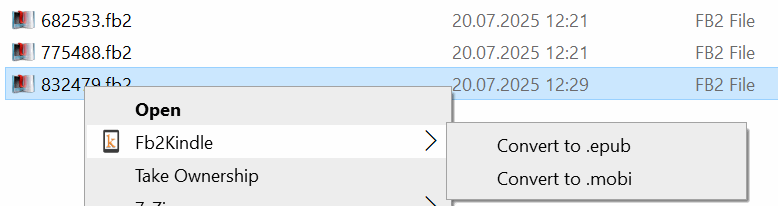
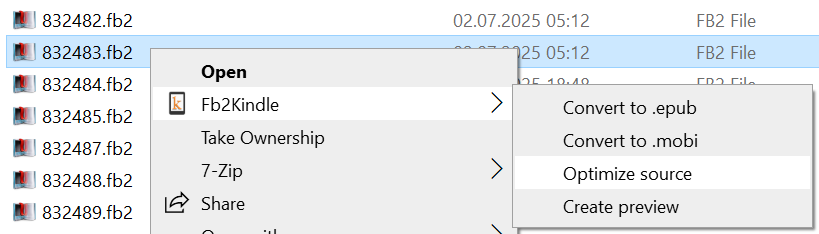
-optimize: optimize images in target
-optimizeSource: optimize images in source file

diff --git a/Fb2Kindle/Convertor.cs b/Fb2Kindle/Convertor.cs
@@ -38,7 +38,7 @@ namespace Fb2Kindle {
 
     private const string DropCap = "АБВГДЕЖЗИКЛМНОПРСТУФХЦЧЩШЭЮЯ"; //"АБВГДЕЁЖЗИЙКЛМНОПРСТУФХЦЧЩШЬЪЫЭЮЯQWERTYUIOPASDFGHJKLZXCVBNM";
     private const string NoAuthorText = "без автора";
-    private const string kindlegenName = "kindlegen.exe";
+    private const string KindleGenName = "kindlegen.exe";
     private XElement opfFile;
     private readonly AppOptions options;
 
@@ -109,6 +109,17 @@ namespace Fb2Kindle {
               continue;
           }
 
+          if (options.OptimizeSource) {
+            XElement bookRaw;
+            using (Stream file = File.OpenRead(books[idx])) {
+              bookRaw = XElement.Load(file, LoadOptions.None);
+            }
+            if (bookRaw != null && OptimizeImages(bookRaw)) {
+               bookRaw.Save(books[idx], SaveOptions.None);
+            }
+            continue;
+          }
+
           var book = LoadBookWithoutNs(books[idx]);
           if (book == null) return false;
 
@@ -126,7 +137,7 @@ namespace Fb2Kindle {
           if (ProcessImages(book, $"Images\\{bookPostfix}", coverDone)) {
             var imgSrc = Util.AttributeValue(book.Elements("description").Elements("title-info").Elements("coverpage").Elements("div").Elements("img"), "src");
             if (!string.IsNullOrEmpty(imgSrc)) {
-              ImagesHelper.AutoScaleImage(Path.Combine(options.TempFolder, imgSrc));
+              ImagesHelper.AutoScaleImage(Path.Combine(options.TempFolder, imgSrc), true, options.Config.OptimizeImagesWidth, options.Config.OptimizeImagesHeight);
               if (!coverDone) {
                 opfFile.Elements("metadata").First().Elements("x-metadata").First().Add(new XElement("EmbeddedCover", imgSrc));
                 AddGuideItem("Cover", imgSrc, "other.ms-coverimage-standard");
@@ -160,7 +171,7 @@ namespace Fb2Kindle {
         }
 
         if (sequenceIndex == 0)
-          return false;
+           return false;
         CreateNcxFile(rootToc);
 
         if (rootToc != null && !options.Config.SkipToc) {
@@ -170,6 +181,10 @@ namespace Fb2Kindle {
         }
 
         SaveXmlToFile(opfFile, $@"{options.TempFolder}\content.opf");
+        
+        if (options.Test)
+          return true;
+
         var tmpBookPath = options.Epub 
           ? CreateEpub() 
           : CreateMobi();
@@ -207,7 +222,7 @@ namespace Fb2Kindle {
                 break;
               case ConverterCleanupMode.Partial:
                 //File.Delete(Path.Combine(tempDir, Path.GetFileNameWithoutExtension(inputFile) + ".opf"));
-                File.Delete(Path.Combine(options.TempFolder, kindlegenName));
+                File.Delete(Path.Combine(options.TempFolder, KindleGenName));
 
                 //for Partial mode UseSourceAsTempFolder is always true 
                 // var destFolder = GetVersionedPath(Path.GetDirectoryName(bookPath) +"\\" + bookName);
@@ -447,11 +462,11 @@ namespace Fb2Kindle {
     private string CreateMobi() {
 
       Util.WriteLine("Creating mobi (KF8)...", ConsoleColor.White);
-      var kindleGenPath = $"{options.AppPath}\\{kindlegenName}";
+      var kindleGenPath = $"{options.AppPath}\\{KindleGenName}";
       if (!File.Exists(kindleGenPath)) {
-        kindleGenPath = $"{options.TempFolder}\\{kindlegenName}";
-        if (!Util.GetFileFromResource(kindlegenName, kindleGenPath)) {
-          Util.WriteLine($"{kindlegenName} not found", ConsoleColor.Red);
+        kindleGenPath = $"{options.TempFolder}\\{KindleGenName}";
+        if (!Util.GetFileFromResource(KindleGenName, kindleGenPath)) {
+          Util.WriteLine($"{KindleGenName} not found", ConsoleColor.Red);
           return null;
         }
       }
@@ -841,6 +856,10 @@ namespace Fb2Kindle {
                 img.Save(file, format);
               }
             }
+
+            if (options.Config.OptimizeImages)
+              ImagesHelper.AutoScaleImage(file, magnify: false, options.Config.OptimizeImagesWidth, options.Config.OptimizeImagesHeight);
+
             if (options.Config.Grayscaled) {
               Image gsImage;
               using (var img = Image.FromFile(file)) {
@@ -862,6 +881,30 @@ namespace Fb2Kindle {
       return true;
     }
 
+    private bool OptimizeImages(XElement book) {
+      if (book == null) return false;
+      Util.Write("Optimizing source images...", ConsoleColor.White);
+      var hasChanges = false;
+      foreach (var binEl in book.Descendants().Where(e => e.Name.LocalName == "binary")) {
+        var imgId = binEl.Attribute("id")?.Value;
+        try {
+          var format = ImagesHelper.GetImageFormatFromMimeType(binEl.Attribute("content-type")?.Value, options.Config.Jpeg ? ImageFormat.Jpeg : ImageFormat.Png);
+          //todo: we can get format from img.RawFormat
+          var imageBytes = Convert.FromBase64String(binEl.Value);
+          if (!ImagesHelper.AutoScaleImage(imageBytes, format, false,
+                options.Config.OptimizeImagesWidth, options.Config.OptimizeImagesHeight,
+                out var scaledBytes)) continue;
+          binEl.Value = Convert.ToBase64String(scaledBytes);
+          hasChanges = true;
+        }
+        catch (Exception ex) {
+          Util.WriteLine($"Error processing image '{imgId}': " + ex.Message, ConsoleColor.Red);
+        }
+      }
+       Util.WriteLine("(OK)", ConsoleColor.Green);
+      return hasChanges;
+    }
+    
     #endregion Images
   }
 }

diff --git a/Fb2Kindle/ImagesHelper.cs b/Fb2Kindle/ImagesHelper.cs
@@ -77,18 +77,38 @@ namespace Fb2Kindle {
       return defaultResult;
     }
 
-    internal static void AutoScaleImage(string coverFilePath, int width = 600, int height = 800) {
+    internal static void AutoScaleImage(string imageFilePath, bool magnify, int width, int height) {
       Image scaledImage = null;
       var imgFormat = ImageFormat.Png;
-      using (var img = Image.FromFile(coverFilePath)) {
-        if (img.Size.Width < width && img.Size.Height < height) {
+      using (var img = Image.FromFile(imageFilePath)) {
+        if (img.Size.Width > width && img.Size.Height > height || magnify && img.Size.Width < width && img.Size.Height < height) {
           imgFormat = GetImageFormatFromMimeType(GetMimeType(img), ImageFormat.Png);
-          scaledImage = ResizeImage(img, 600, 800);
+          scaledImage = ResizeImage(img, width, height);
         }
       }
       if (scaledImage == null) return;
-      scaledImage.Save(coverFilePath, imgFormat);
+      scaledImage.Save(imageFilePath, imgFormat);
       scaledImage.Dispose();
+    }
+
+    internal static bool AutoScaleImage(byte[] imageBytes, ImageFormat format, bool magnify, int width, int height, out byte[] scaledBytes) {
+
+      scaledBytes = imageBytes;
+      using (var img = Image.FromStream(new MemoryStream(imageBytes))) {
+
+        if ((img.Size.Width <= width || img.Size.Height <= height) &&
+            (!magnify || img.Size.Width >= width || img.Size.Height >= height)) {
+          return false;
+        }
+
+        format = GetImageFormatFromMimeType(GetMimeType(img), format);
+        using (var scaledImage = ResizeImage(img, width, height)) {
+          var output = new MemoryStream();
+          scaledImage.Save(output, format);
+          scaledBytes = output.ToArray();
+          return true;
+        }
+      }
     }
 
     internal static double GetScaleFactor(Image original, int width, int height) {
@@ -106,10 +126,10 @@ namespace Fb2Kindle {
       var factor = GetScaleFactor(image, width, height);
       width = (int)Math.Round(image.Width * factor);
       height = (int)Math.Round(image.Height * factor);
-      var destRect = new Rectangle(0, 0, width, height);
-      var destImage = new Bitmap(width, height);
-      destImage.SetResolution(image.HorizontalResolution, image.VerticalResolution);
-      using (var graphics = Graphics.FromImage(destImage)) {
+      var dstRect = new Rectangle(0, 0, width, height);
+      var dstImage = new Bitmap(width, height);
+      dstImage.SetResolution(image.HorizontalResolution, image.VerticalResolution);
+      using (var graphics = Graphics.FromImage(dstImage)) {
         graphics.CompositingMode = CompositingMode.SourceCopy;
         graphics.CompositingQuality = CompositingQuality.HighQuality;
         graphics.InterpolationMode = InterpolationMode.HighQualityBicubic;
@@ -118,10 +138,10 @@ namespace Fb2Kindle {
 
         using (var wrapMode = new ImageAttributes()) {
           wrapMode.SetWrapMode(WrapMode.TileFlipXY);
-          graphics.DrawImage(image, destRect, 0, 0, image.Width, image.Height, GraphicsUnit.Pixel, wrapMode);
+          graphics.DrawImage(image, dstRect, 0, 0, image.Width, image.Height, GraphicsUnit.Pixel, wrapMode);
         }
       }
-      return destImage;
+      return dstImage;
     }
     
     // private static ImageCodecInfo GetEncoderInfo(string extension) {

diff --git a/Fb2Kindle/Program.cs b/Fb2Kindle/Program.cs
@@ -29,18 +29,20 @@ namespace Fb2Kindle {
       // Util.WriteLine("\t-preview: keep generated source files");
       // Util.WriteLine("\t-debug: keep all generated files");
       Util.WriteLine();
-      
       Util.WriteLine("\t-d: delete source file after successful conversion");
       Util.WriteLine("\t-u or -update: update application to the latest version. You can combine it with the `-save` option to enable auto-update on every run");
       Util.WriteLine("\t-s: add sequence and number to the document title");
       Util.WriteLine("\t-c (same as -c1) or -c2: use compression (slow)");
-      Util.WriteLine("\t-ni: no images");
       Util.WriteLine("\t-dc: DropCaps mode");
-      Util.WriteLine("\t-g: grayscale images");
-      Util.WriteLine("\t-jpeg: save images in jpeg");
       Util.WriteLine("\t-ntoc: no table of content");
       Util.WriteLine("\t-nch: no chapters");
-      
+      Util.WriteLine();
+      Util.WriteLine("\t-optimizeSource: optimize images in source file (decrease to 600x800 by default)");
+      Util.WriteLine("\t-optimize: optimize images in target (decrease to 600x800 by default)");
+      Util.WriteLine("\t-ni: no images");
+      Util.WriteLine("\t-g: grayscale images");
+      Util.WriteLine("\t-jpeg: save images in jpeg");
+
       Util.WriteLine();
     }
 
@@ -99,10 +101,24 @@ namespace Fb2Kindle {
             cmdKey.SetValue("", $"{baseCommand} -epub");
           }
         }
+#if DEBUG
+        using (var subKey = key.CreateSubKey(@"shell\preview")) {
+          subKey.SetValue("", "Create preview");
+          using (var cmdKey = subKey.CreateSubKey("command")) {
+            cmdKey.SetValue("", $"{baseCommand} -test -preview -optimize");
+          }
+        }
+#endif
         using (var subKey = key.CreateSubKey(@"shell\convert_mobi")) {
           subKey.SetValue("", "Convert to .mobi");
           using (var cmdKey = subKey.CreateSubKey("command")) {
-            cmdKey.SetValue("", baseCommand);
+            cmdKey.SetValue("", $"{baseCommand} -optimize");
+          }
+        }
+        using (var subKey = key.CreateSubKey(@"shell\optimize")) {
+          subKey.SetValue("", "Optimize source");
+          using (var cmdKey = subKey.CreateSubKey("command")) {
+            cmdKey.SetValue("", $"{baseCommand} -optimizeSource");
           }
         }
       }
@@ -226,6 +242,9 @@ namespace Fb2Kindle {
               case "-ni":
                 options.Config.NoImages = true;
                 break;
+              case "-optimize":
+                options.Config.OptimizeImages = true;
+                break;
               case "-g":
                 options.Config.Grayscaled = true;
                 break;
@@ -283,6 +302,12 @@ namespace Fb2Kindle {
                 break;
               case "-epub":
                 options.Epub = true;
+                break;
+              case "-test":
+                options.Test = true;
+                break;
+              case "-optimizesource":
+                options.OptimizeSource = true;
                 break;
               case "-o":
                 options.DetailedOutput = false;

diff --git a/Fb2Kindle/Config.cs b/Fb2Kindle/Config.cs
@@ -17,6 +17,9 @@ namespace Fb2Kindle {
     public bool SkipToc { get; set; }
     public byte CompressionLevel { get; set; }
     public bool AddSequenceInfo { get; set; }
+    public bool OptimizeImages { get; set; }
+    public int OptimizeImagesWidth { get; set; } = 600;
+    public int OptimizeImagesHeight { get; set; } = 800;
     public bool Grayscaled { get; set; }
     public bool Jpeg { get; set; }
 
@@ -36,6 +39,8 @@ namespace Fb2Kindle {
     internal ConverterCleanupMode CleanupMode { get; set; }
     internal bool UseSourceAsTempFolder { get; set; }
     internal bool Epub { get; set; }
+    internal bool Test { get; set; }
+    internal bool OptimizeSource { get; set; }
     internal string MailTo { get; set; }
     internal bool DetailedOutput { get; set; } = true;
     internal string Css { get; set; }

diff --git a/readme.md b/readme.md
@@ -66,6 +66,8 @@ To use:
   - `-u` or `-update`: update application to the latest version. You can combine it with the `-save` option to enable auto-update on every run
   - `-s`: add sequence and number to the document title
   - `-c` (same as `-c1`) or `-c2`: use compression (slow)
+  - `-optimizeSource`: optimize images in source file (decrease to 600x800 by default)
+  - `-optimize`: optimize images in target (decrease to 600x800 by default)
   - `-ni`: no images
   - `-dc`: DropCaps mode
   - `-g`: grayscale images
